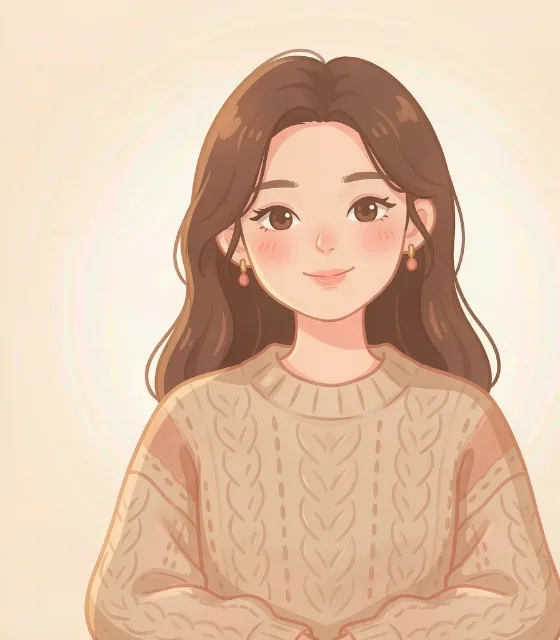
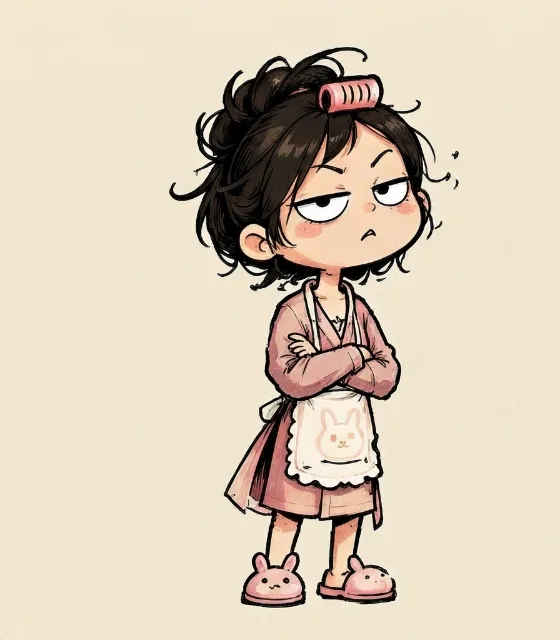
老婆全套素材 v2（用户参考图风格）：基准+4表情差分，垫图生成
- 用户设定图作 image1 生成基准立绘，角色还原度高（发卷/睡衣/围裙/拖鞋）
- 基准图垫图出 happy/angry/cry/worry 差分，人物一致性极好
- 560×640 WebP，单张 25–27KB 预算内；实机验证 4 张差分卡命中正确
- raw 原图 ~8MB 进 .gitignore；旧版 laopo.webp（写实风）被替换

diff --git a/docs/devlog/2026-10-28.md b/docs/devlog/2026-10-28.md
@@ -155,3 +155,15 @@
 - 素材路径规范从 .png 改 **.webp**（artHTML 一处 + 表情差分一处）。
 - 生图还有图生图（垫图改图）能力：基准立绘作输入图改表情出差分，人物一致性
   比纯文生图强得多——正好对上「同一 PSD 换表情」的差分方案。
+
+## 第十轮：老婆全套素材完成（用户参考图风格）
+
+> 用户给了老婆角色的设定图（粉色睡衣+发卷+兔子围裙的Q版嫌弃脸），要求按素材规范拆分。
+
+- 不能直接抠图：设定图里表情头像仅 ~90px，放大到 560×640 必糊。
+  正确姿势=**垫图（图生图）**：设定图作 image1 → 生成全尺寸基准立绘（角色还原度高：
+  发卷/睡衣/兔子围裙/兔子拖鞋/嫌弃脸全中）→ 基准图再垫出 4 张表情差分
+  （happy/angry/cry/worry），人物一致性极好。
+- 全部处理：裁 7:8 裁掉 AI 水印 → 560×640 → WebP q0.82，单张 25–27KB（预算 ≤45KB）。
+- 实机验证 4 张差分卡：结婚纪念日→开心、质问→生气、离婚→哭、吃饭→忧虑，全部正确命中，
+  卡面渲染自然。raw 原图（~8MB）进 .gitignore 不入库。
